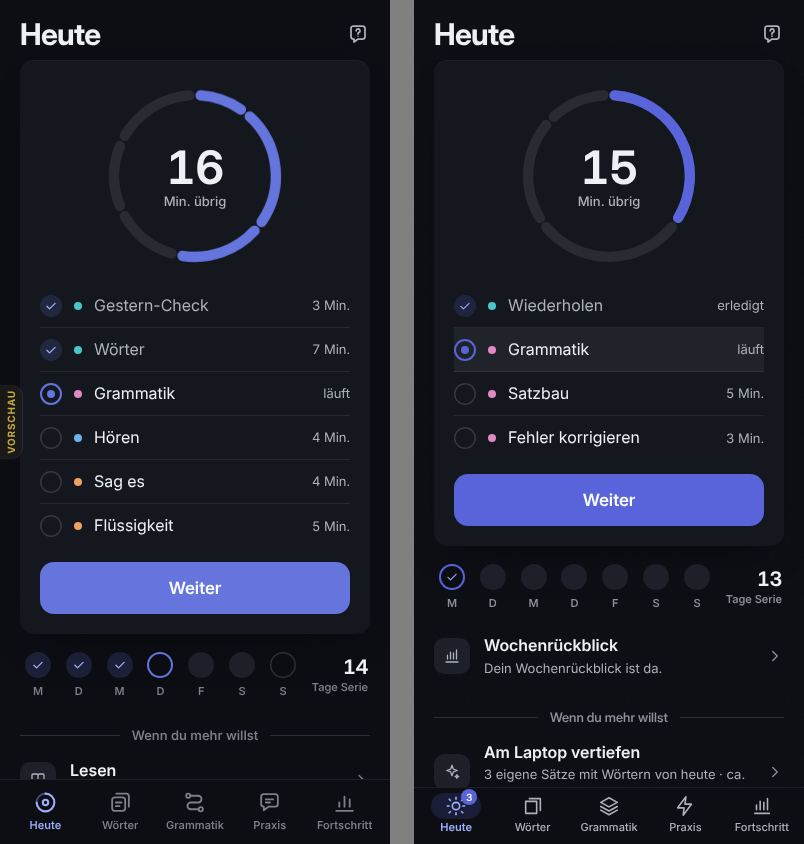
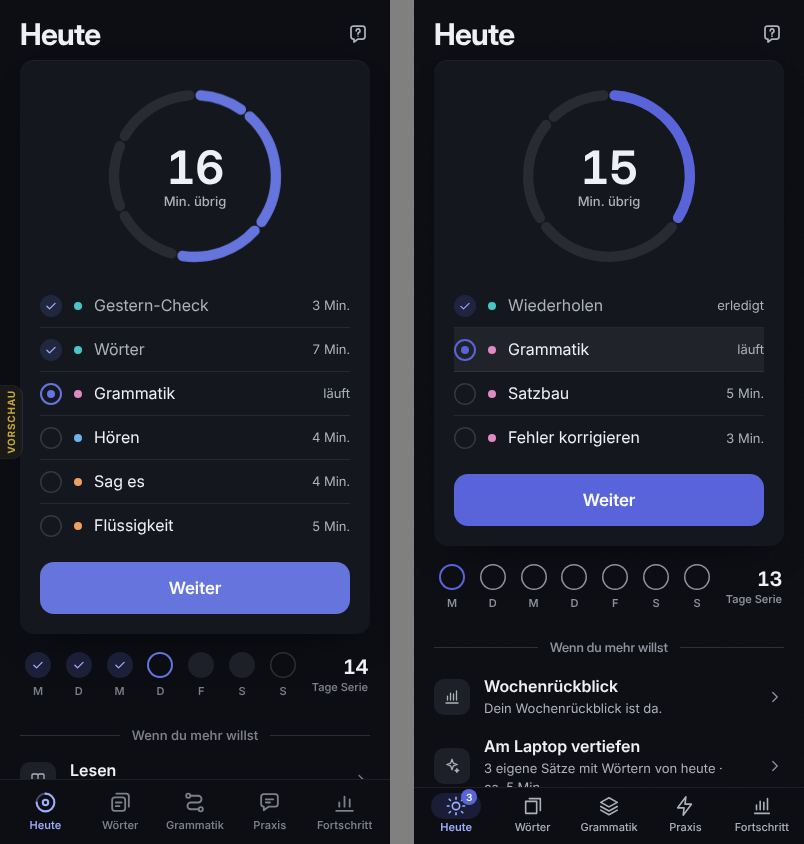
D2: Korrekturen nach Design-Prüfung, Bericht
Wochenstreifen: heute erst erledigt, wenn die Pflicht fertig ist; ein Zustand je Tag; kommende Tage mit Rand,
Ruhetag gestrichelt, ohne „offen“. Wochenrückblick unter „Wenn du mehr willst“. Laptop: Kapitelstand direkt
unter der Tageskarte. Lade-Bild-Vergleich mit Modus/Sprache. Golden Teil B neu (Teil A unverändert).

Claude-Session: https://claude.ai/code/session_01JA41d8A7P8izYbkVaNhdKQ

Changed region(s): [[0.5597, 0.7393, 0.9328, 0.9242], [0.5908, 0.6777, 0.8706, 0.7085]]

diff --git a/src/features/today/TodayWeek.tsx b/src/features/today/TodayWeek.tsx
@@ -57,18 +57,28 @@ function dayWord(d: WeekDay, t: ReturnType<typeof useT>['t']): string {
   if (d.state === 'done') return t('vhWeekDone');
   if (d.state === 'rest') return t('vhWeekRest');
   if (d.state === 'open') return t('vhWeekNoStudy');
-  return t('vhWeekOpen');
+  // Kommende Tage: ohne Wort (kein „offen“, das klänge nach Rückstand); Tagesarten kommen mit F3.
+  return '';
+}
+
+/**
+ * Was der Streifen für einen Tag zeigt (Kap. 2 Nr. 2, ux-reviewer D2 Befund 1): Heute gilt erst als erledigt, wenn die Pflicht von heute
+ * erledigt ist – so sagen Ring, Zähler und Häkchen dasselbe. Die Serienzahl selbst bleibt nach der Serienregel (`streakWeek`).
+ */
+function shown(d: WeekDay, todayDone: boolean): WeekDay {
+  return d.today && d.state === 'done' && !todayDone ? { ...d, state: 'open' } : d;
 }
 
 /** Sieben Tageskreise und die Serie (Handy, Laptop unter 1.280 px). Gleiche Klassen wie `VWeekStrip` (D1), mit Tageskennungen für Tests. */
-export function TodayWeekStrip({ sw }: { sw: StreakWeek }) {
+export function TodayWeekStrip({ sw, todayDone }: { sw: StreakWeek; todayDone: boolean }) {
   const { t, tn } = useT();
   const fmt = useFmt();
   if (sw.week.length === 0) return null;
   return (
     <div className="lx-v-week lx-vh-week" data-testid="week-strip">
       <ul className="lx-v-week-days" aria-label={t('vWeek')}>
-        {sw.week.map((d) => {
+        {sw.week.map((raw) => {
+          const d = shown(raw, todayDone);
           const done = d.state === 'done';
           const label = `${fmt.long(d.day)}: ${dayWord(d, t)}`;
           return (
@@ -107,15 +117,17 @@ export function TodayWeekStrip({ sw }: { sw: StreakWeek }) {
 }
 
 /** „Diese Woche“ in der Kontextspalte (Vorschau L1 `l1Ctx`): Mo–So mit Zustand; darunter optional eine Zeile (Wochenrückblick). */
-export function WeekList({ sw, extra }: { sw: StreakWeek; extra?: ReactNode }) {
+export function WeekList({ sw, todayDone, extra }: { sw: StreakWeek; todayDone: boolean; extra?: ReactNode }) {
   const { t } = useT();
   const fmt = useFmt();
   if (sw.week.length === 0) return null;
   return (
     <div className="lx-v-card lx-vh-weeklist" data-testid="week-list">
       <ul className="lx-v-statelist" aria-label={t('vWeek')}>
-        {sw.week.map((d) => {
-          const st = d.today ? 'run' : d.state === 'done' ? 'done' : 'open';
+        {sw.week.map((raw) => {
+          const d = shown(raw, todayDone);
+          // Ein Zustand je Tag: erledigt (Häkchen) oder heute offen (Laufpunkt), nie beides.
+          const st = d.state === 'done' ? 'done' : d.today ? 'run' : 'open';
           return (
             <li key={d.day} className="lx-v-st" data-state={st} data-day={d.day} title={fmt.long(d.day)}>
               <span className="lx-v-st-mk" aria-hidden="true">

diff --git a/src/features/today/TodayScreen.tsx b/src/features/today/TodayScreen.tsx
@@ -476,16 +476,21 @@ export function TodayScreen() {
         </motion.div>
       )}
 
+      {/* Laptop: Kapitelstand und Wörter fest direkt unter der Tageskarte (Vorschau L1 `l1Mid`), vor allen weiteren Karten. */}
+      {wide && ok && (
+        <motion.div variants={item}>
+          <TodayMid />
+        </motion.div>
+      )}
       {/* Woche und „Wenn du mehr willst“: am Handy unter der Karte (Vorschau H1), ab 1.280 px nur rechts in der Kontextspalte (L1). */}
       {ok && !ctxWide && (
         <motion.div variants={item}>
-          <TodayWeekStrip sw={sw} />
-          {weekly}
+          <TodayWeekStrip sw={sw} todayDone={done} />
         </motion.div>
       )}
       {ok && !ctxWide && (
         <motion.div variants={item}>
-          <ExtraRow today={today} done={done} />
+          <ExtraRow today={today} done={done} lead={weekly} />
         </motion.div>
       )}
       {ok && done && <Slot name="today.extra" />}
@@ -505,11 +510,6 @@ export function TodayScreen() {
         </div>
       )}
       {planStatus === 'local' && <p className="lx-vh-note">{t('nbHeuteLocal')}</p>}
-      {wide && ok && (
-        <motion.div variants={item}>
-          <TodayMid />
-        </motion.div>
-      )}
     </motion.div>
   );
 }
@@ -531,7 +531,7 @@ export function TodayContext() {
     <div className="lx-vh-ctx" data-testid="today-context">
       <section aria-labelledby="td-ctx-week">
         <h3 id="td-ctx-week">{t('vWeek')}</h3>
-        <WeekList sw={sw} extra={comebackBand(gap) === 'none' && restartDay === null ? <WeeklyBand today={today} /> : null} />
+        <WeekList sw={sw} todayDone={done} extra={comebackBand(gap) === 'none' && restartDay === null ? <WeeklyBand today={today} /> : null} />
       </section>
       <section aria-labelledby="td-ctx-more">
         <h3 id="td-ctx-more">{t('vhMore')}</h3>

diff --git a/src/features/today/ExtraRow.tsx b/src/features/today/ExtraRow.tsx
@@ -1,4 +1,4 @@
-import { useMemo, useState } from 'react';
+import { useMemo, useState, type ReactNode } from 'react';
 import { useClock } from '../../app/clock';
 import { useNav } from '../../app/nav';
 import { useLive } from '../../data/live';
@@ -165,13 +165,14 @@ export function MoreRows({ today, done, idp = '' }: { today: string; done: boole
 }
 
 /** Handy und schmale Laptops: Trennzeile „Wenn du mehr willst“ und die Zeilen (Vorschau `more-div`). */
-export function ExtraRow({ today, done }: { today: string; done: boolean }) {
+export function ExtraRow({ today, done, lead }: { today: string; done: boolean; lead?: ReactNode }) {
   const { t } = useT();
   return (
     <section className="lx-vh-moresec" aria-labelledby="td-more-title">
       <h2 id="td-more-title" className="lx-vh-more-div">
         {t('vhMore')}
       </h2>
+      {lead}
       <MoreRows today={today} done={done} />
     </section>
   );

diff --git a/tests/e2e/vorschau-heute.spec.ts b/tests/e2e/vorschau-heute.spec.ts
@@ -129,7 +129,8 @@ async function openApp(page: Page, state: AppState, mode: Mode, lang: Lang): Pro
   else if (state === 'done')
     r = await boot(page, { ...base, now: MON_9, fake: { patch: { ...profileWith(MON, vgPlan(), ['u-task', 'u-focus', 'u-again']), ...reviewedLog(MON), ...NO_GRAMMAR_ERRORS } } });
   else if (state === 'pause') r = await boot(page, { ...base, now: '2026-10-05T09:00:00+02:00' });
-  else r = await boot(page, { ...base, fake: { useDelayMsBy: { db: 60_000 } } });
+  // Lade-Bild: Modus und Sprache liest das Start-Skript aus dem Browser-Speicher (index.html), bevor Daten da sind.
+  else r = await boot(page, { ...base, localStorage: { 'lx:theme': mode, 'lx:lang': lang }, fake: { useDelayMsBy: { db: 60_000 } } });
   if (state === 'skeleton') {
     await page.getByTestId('today-skeleton').waitFor();
   } else {

diff --git a/src/styles/parts/v-heute.css b/src/styles/parts/v-heute.css
@@ -134,3 +134,8 @@
 .lx-vh-mid-first { order: -1; }
 /* Abschluss: kein Knopf, also keine feste Höhe (die Karte ersetzt kein Skelett mit Knopf). */
 .lx-vh-day.lx-vh-done.lx-v-card { min-height: 0; }
+
+/* ux-reviewer D2 (Befund 5): Zustand nie nur über Farbe. Kommende Tage mit feinem Rand (auch in Hell sichtbar), Tage ohne Lerntag gefüllt,
+   Ruhetag gestrichelt. Gilt nur für den Wochenstreifen auf Heute. */
+.lx-vh-week .lx-v-wd[data-state='future'] i { background: transparent; box-shadow: 0 0 0 1.5px var(--fg-3) inset; }
+.lx-vh-week .lx-v-wd[data-rest] i { box-shadow: none; border: 1.5px dashed var(--fg-3); }

diff --git a/src/i18n/parts/hx.de.ts b/src/i18n/parts/hx.de.ts
@@ -16,7 +16,7 @@ export const hxDe = {
   hxExtraTitle: 'Extra',
   hxExtraNote: 'Freiwillig. Zählt nicht für Ring oder Serie.',
   hxExtraLaptop: 'Am Laptop vertiefen',
-  hxExtraLaptopSub: '3 eigene Sätze mit Wörtern von heute · ca. 5 Min.',
+  hxExtraLaptopSub: '3 eigene Sätze mit Wörtern von heute · ca.\u00a05 Min.',
   hxExtraLaptopWords: 'Wörter von heute: {words}',
   hxExtraWrong: 'Fehlwörter von heute',
   hxExtraWrongSub: '{n} Wörter · 2 Min.',

diff --git a/src/i18n/parts/vh.en.ts b/src/i18n/parts/vh.en.ts
@@ -19,10 +19,8 @@ export const vhEn: Record<keyof typeof vhDe, string> = {
   vhWordsPracticeSub: '{n} due, counts as extra',
   vhWeekDone: 'done',
   vhWeekRest: 'Rest day',
-  vhWeekOpen: 'open',
   vhWeekToday: 'today',
   vhWeekTodayDone: 'today · done',
   vhWeekNoStudy: 'no study day',
   vhWeekRecap: 'Weekly review',
-  vhRestartWeek: 'Restart week',
 };

diff --git a/src/i18n/parts/vh.de.ts b/src/i18n/parts/vh.de.ts
@@ -18,10 +18,8 @@ export const vhDe = {
   vhWordsPracticeSub: '{n} fällig, zählt als Extra',
   vhWeekDone: 'erledigt',
   vhWeekRest: 'Ruhetag',
-  vhWeekOpen: 'offen',
   vhWeekToday: 'heute',
   vhWeekTodayDone: 'heute · erledigt',
   vhWeekNoStudy: 'kein Lerntag',
   vhWeekRecap: 'Wochenrückblick',
-  vhRestartWeek: 'Neustart-Woche',
 };

diff --git a/docs/umbau/berichte/d2.md b/docs/umbau/berichte/d2.md
@@ -13,11 +13,11 @@ Stand 31.10.2026 · Zweig `claude/umbau-d2` (vom Stand `ac9eafd` auf `claude/umb
 8. Bilder: `docs/umbau/berichte/d2/*.jpg` (links Vorschau, rechts App).
 
 ## ok
-**ja.** `verify:fast` grün, Vorschau-Paare H1×6 und L1×3 grün (72/72), Kap.-15-Fälle grün. Eine Design-Prüfung (ux-reviewer) ist gelaufen, Ergebnis unten.
+**ja.** `verify:fast` grün (Endstand), Vorschau-Paare H1×6 und L1×3 grün (72/72), Kap.-15-Fälle grün. Eine Design-Prüfung (ux-reviewer) ist gelaufen; die Befunde sind behoben bis auf die unten genannten (Regel: danach entscheidet Emrah, keine zweite Runde ohne Anlass).
 
 ## commit
 - `f8506546` – Umbau, Stile, Tests, Bilder.
-- Bericht: Commit danach. `dist/` ist absichtlich nicht eingecheckt (baut der Überchat nach dem Zusammenführen).
+- Commit danach – Korrekturen nach der Design-Prüfung, Bericht. `dist/` ist absichtlich nicht eingecheckt (baut der Überchat nach dem Zusammenführen).
 
 ## Funktionsliste (alter Stand `ac9eafd`, Datei:Zeile) → was daraus wurde
 | # | Funktion (alt) | Fundstelle | Jetzt |
@@ -62,7 +62,8 @@ Nicht gebaut, weil es keine Funktion dahinter gibt (kein toter Knopf): „Heute 
 - `scripts/budget.json` (D2: entry +8.000, css +1.500, vorab und zuwachs), `scripts/verify-fast-map.mjs`, `scripts/check-css-legacy.mjs` (`src/features/today/` umgebaut, `v-heute.css` neu).
 
 ## zahlen
-- `verify:fast --base origin/claude/umbau-fokus` (Fingerabdruck `2a5fe91251cdd0c8`, 9:44 min): typecheck+lint ✓, unit ✓, build ✓, e2e ✓ (218 bestanden, 1 übersprungen, 22 Specs), e2e-perf ✓, check:platform ✓, check:budget ✓.
+- `verify:fast --base origin/claude/umbau-fokus` auf dem Endstand (Fingerabdruck `5f9dfb58b0b71de8`, 9:09 min): typecheck+lint ✓, unit ✓, build ✓, e2e ✓ (218 bestanden, 1 übersprungen, 22 Specs), e2e-perf ✓, check:platform ✓, check:budget ✓.
+- Nach den Korrekturen zusätzlich: Heute-Specs + Vorschau-Paare zusammen 141/141 grün.
 - `vorschau-heute.spec.ts`: 72/72 grün (H1 × 6 × 3 Modi × 2 Sprachen bei 390; L1 × 3 × 2 Größen × 3 × 2).
 - Kennzahlen-Golden Teil A (`metrics-kennzahlen.json`): **unverändert grün**. Teil B (`metrics-today.json`, `metrics-today-extra.json`) neu geschrieben, weil sich der Aufbau geändert hat.
 - Budget, gemessen ohne/mit D2: entry 2.760.659 → 2.762.309 B gzip (+1,7 KB), css 31.198 → 31.829 (+0,6 KB), html 2.288 → 1.949 (−0,3 KB).
@@ -77,11 +78,25 @@ Nicht gebaut, weil es keine Funktion dahinter gibt (kein toter Knopf): „Heute 
 6. **Wackler bei Last**: `erreichbar.spec` (1280 px) lief im ersten `verify:fast` über 45 s; allein 25,0 s mit und 24,9 s ohne D2 – nicht durch D2 verursacht, im zweiten Lauf grün.
 7. Umgebung: wie D1/Q0 (`PW_CHROMIUM=/opt/pw-browsers/chromium-1243/chrome-linux64/chrome`, `--unshallow` + `v86-checkout`). Die lokale `claude/umbau-fokus` war veraltet; `verify:fast` deshalb mit `--base origin/claude/umbau-fokus`.
 
-## ux-reviewer
-(siehe unten, eingetragen nach der Prüfung)
+## ux-reviewer (eine Prüfung, 18 Bildpaare gesehen, alle Zustände, Modi, Sprachen, 390/1440/2560)
+Urteil „nachbessern“; Aufbau, Maße, Kopf, Ring, Knopf, Trennlinie und Zeilen stimmen mit der Vorschau überein. Befunde und was daraus wurde:
+1. **hoch** – Wochenstreifen zeigte heute „erledigt“ (alte Serienregel: jede Aktivität zählt), während der Ring „15 Min. übrig“ zeigte. **Behoben:** Heute gilt im Streifen und in „Diese Woche“ erst als erledigt, wenn die Pflicht fertig ist; die Serienzahl bleibt nach der Serienregel (`TodayWeek.tsx` `shown`).
+2. mittel – Häkchen und Laufpunkt übereinander in „Diese Woche“. **Behoben** (ein Zustand je Tag).
+3. mittel – Am Laptop stand nach der Pflicht die Karte „Mein Arbeitsalltag“ (Slot `today.extra`) zwischen Tageskarte und Kapitelstand. **Behoben:** Kapitelstand/Wörter fest stehen jetzt direkt unter der Tageskarte; die Slot-Karten folgen danach. Die Karte selbst gehört einem anderen Paket (Tutor) und bleibt erreichbar.
+4. mittel – Knopf „Neustart-Woche beginnen · 12 Min.“ bricht um, Minuten doppelt zum Ring. **Nicht geändert:** Der Kennzahlen-Golden Teil A hält genau diese Zahl am Knopf fest und darf im Umbau nie neu geschrieben werden. → `offene_fragen` 3.
+5. mittel – Kommende Tage in Hell kaum sichtbar, verpasst und kommend gleich. **Behoben:** kommende Tage mit Rand (`--fg-3`), Tage ohne Lerntag gefüllt, Ruhetag gestrichelt.
+6. mittel – Zeile „Wochenrückblick“ stand über „Wenn du mehr willst“. **Behoben:** am Handy erste Zeile unter „Wenn du mehr willst“, am Laptop in „Diese Woche“.
+7. niedrig – Kommende Tage hießen „offen“. **Behoben:** ohne Wort.
+8. niedrig – Ohne laufende Serie bleibt rechts im Streifen Platz frei. Nicht geändert („Serie 0“ gibt es nie); Vorschlag unten.
+9. niedrig – Gedämpft: dunkle Knopfschrift (P1-Entscheidung, wie D1 `offene_fragen` 1). Nicht geändert.
+10. niedrig – ⏎-Zeichen im Laptop-Knopf klein. Maße wie `.btn .k` der Vorschau (12 px, Deckkraft 0,6); nicht geändert.
+11. niedrig – „ca.“ allein am Zeilenende. **Behoben** (geschütztes Leerzeichen in `hxExtraLaptopSub`).
+12. Testlücke – Lade-Bild im Vergleich immer dunkel/deutsch. **Behoben:** der Vergleich setzt Modus und Sprache wie im echten Start; alle 6 Skelett-Paare grün.
+Nicht gesehen laut Prüfer: Bewegung/Übergänge, Tastaturbedienung, Blatt „Alles anzeigen“ im Bild, 360 px, Safari, Fehlerzustände (diese sind per Test abgedeckt, nicht im Bild).
 
 ## Vorschläge (nicht eingebaut)
-- Wochenstreifen in Hell: kommende Tage mit feinem Rand (wie schon D1 vorschlug).
+- Bei Serie 0 rechts im Streifen ein ruhiger Satz („Serie startet heute“) statt leerer Stelle (ux-reviewer 8).
+- Startbild/Ringe am Laptop: ⏎-Zeichen etwas größer (ux-reviewer 10).
 - „Heute wenig Zeit?“ als echte Funktion mit F3 (kürzerer Plan nur für heute, Serie zählt).
 - `VRing`/`VWeekStrip` erweitern (Befund 2), dann `TodayRing`/`TodayWeekStrip` darauf zurückführen.
 
@@ -93,8 +108,10 @@ Nicht gebaut, weil es keine Funktion dahinter gibt (kein toter Knopf): „Heute 
 - Vorschau-Varianten ohne Funktion in der App (catchup, mission, termin, short, writing, test, review, first, day1, vacation; L1 writing/review).
 
 ## offene_fragen
-1. Golden Teil B freigeben (Befund 1)?
+1. Golden Teil B freigeben (Befund 1, zweimal neu geschrieben: Umbau und Korrekturen)?
 2. Soll das Datum zusätzlich sichtbar bleiben (z. B. klein unter „Heute“)? Die Vorschau zeigt es nicht; jetzt steht es nur für Screenreader da.
+3. Neustart-Woche: Knopf wie in der Vorschau ohne Minuten („Los geht’s“), die Minuten stehen schon im Ring? Dafür müsste der Überchat die Kennzahl „restart“ im Golden Teil A bewusst umhängen (vom Knopf auf `restart-min`); ich durfte Teil A nicht ändern.
+4. Vorschau-Wochenstreifen weicht jetzt bewusst ab (kommende Tage mit Rand, Ruhetag gestrichelt) – für Lesbarkeit in Hell. So lassen?
 
 ## Wecken
 (siehe unten)
